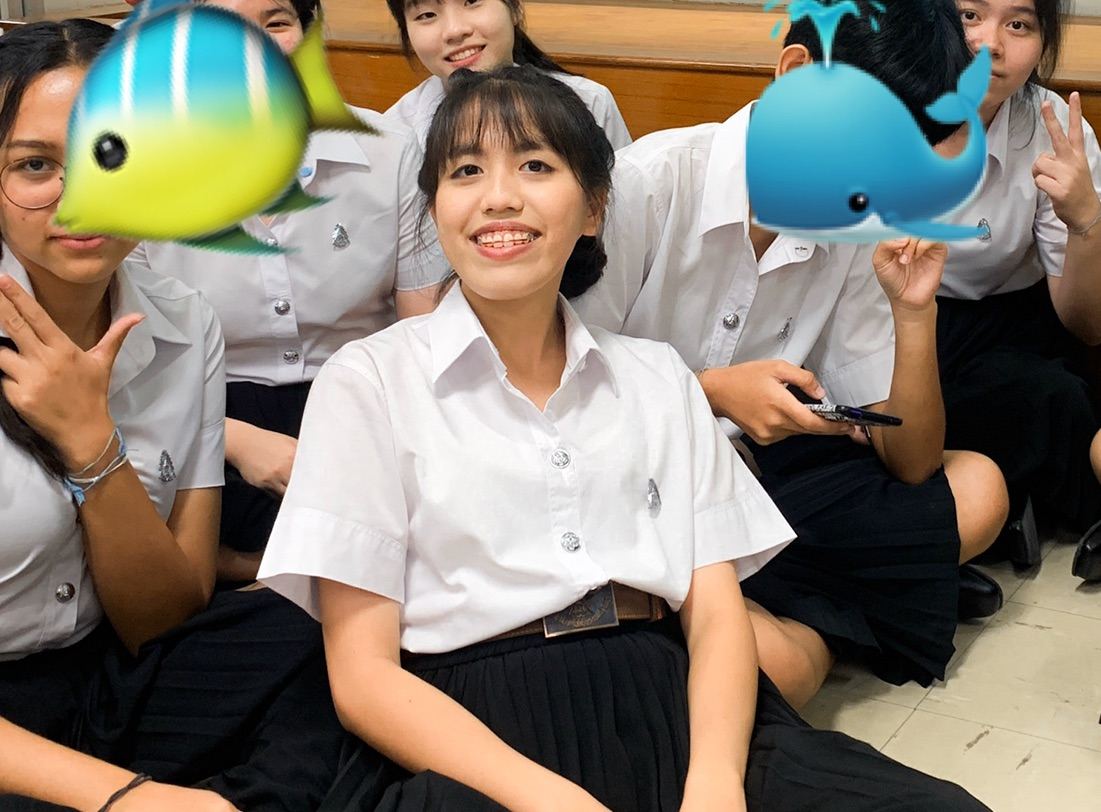
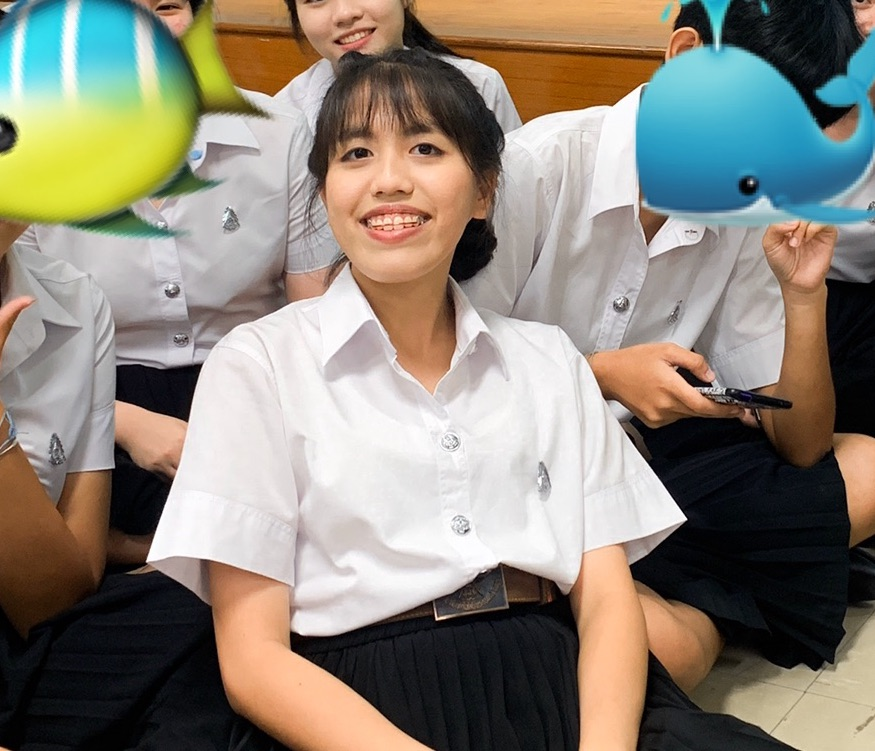
pic

diff --git a/62130500004_Groupwork_2/myprofile.html b/62130500004_Groupwork_2/myprofile.html
@@ -1,0 +1,52 @@
+<!DOCTYPE html>
+<html lang="en">
+
+<head>
+  <meta charset="UTF-8" />
+  <meta name="viewport" content="width=device-width, initial-scale=1.0" />
+  <title>Basic Vue Js - HelloWorld App</title>
+
+  <!-- https://google.github.io/material-design-icons/#icon-font-for-the-web -->
+  <!-- Using via Google Web Fonts -->
+  <link href="https://fonts.googleapis.com/icon?family=Material+Icons" rel="stylesheet" />
+
+  <!-- https://tailwindcss.com/docs/installation -->
+  <!-- Using Tailwind via CDN -->
+  <link href="https://unpkg.com/tailwindcss@^2/dist/tailwind.min.css" rel="stylesheet" />
+
+  <!-- https://v3.vuejs.org/guide/installation.html#release-notes -->
+  <!-- Vue CDN -->
+  <script src="https://unpkg.com/vue@next"></script>
+
+</head>
+
+<body>
+  <div style="background-image: url('images/stardewbackground.png');">
+  <div id="app" >
+   
+   
+      <div class="container flex justify-center py-96">
+          <div class="p-3 bg-white rounded-xl max-w-lg hover:shadow">
+              <div class="flex justify-between w-full"> <img v-bind:src="image" style="width: 250px; height:250px;"
+             class="rounded-lg">
+                  <div class="ml-2">
+                      <div class="p-3">
+                          <h3 class="text-2xl">{{name}}</h3> <span>{{occupation}}</span>
+                      </div>
+                      <div class="flex justify-between items-center p-3 bg-gray-200 rounded-lg">
+                          <div class="mr-3"> <span class="text-gray-400 block">Article</span> <span class="font-bold text-black text-xl">{{article}}</span> </div>
+                          <div class="mr-3"> <span class="text-gray-400 block">Followers</span> <span class="font-bold text-black text-xl">{{followers}}</span> </div>
+                          <div> <span class="text-gray-400 block">Ratings</span> <span class="font-bold text-black text-xl">{{ratings}}</span> </div>
+                      </div>
+                  </div>
+              </div>
+              <div class="flex justify-between items-center mt-2 gap-2"> <button class="w-full h-12 rounded-md border-2 text-md hover:shadow hover:bg-red-700 hover:border-red-700 hover:text-white ">Chat</button> <button class="w-full h-12 rounded-md bg-blue-700 text-white text-md hover:shadow hover:bg-blue-800">Chat</button> </div>
+          </div>
+      </div>
+  </div>
+  </div></div> 
+  <!-- my main.js -->
+  <script src="./profile.js"></script>
+</body>
+
+</html>

diff --git a/62130500004_Groupwork_2/profile.js b/62130500004_Groupwork_2/profile.js
@@ -1,0 +1,19 @@
+    const app = {
+        data() {
+            return {
+                msg: 'Hello, Vue3',
+                name: 'Khorapin Gadpu',
+                occupation: 'Student',
+                article: 202,
+                followers: 835,
+                ratings: 9.9,
+                image: "images/S__16613428.jpg",
+                bg: "images/stardewbackground.png"
+
+            }
+        }
+            
+      
+                
+    }
+    Vue.createApp(app).mount('#app')
